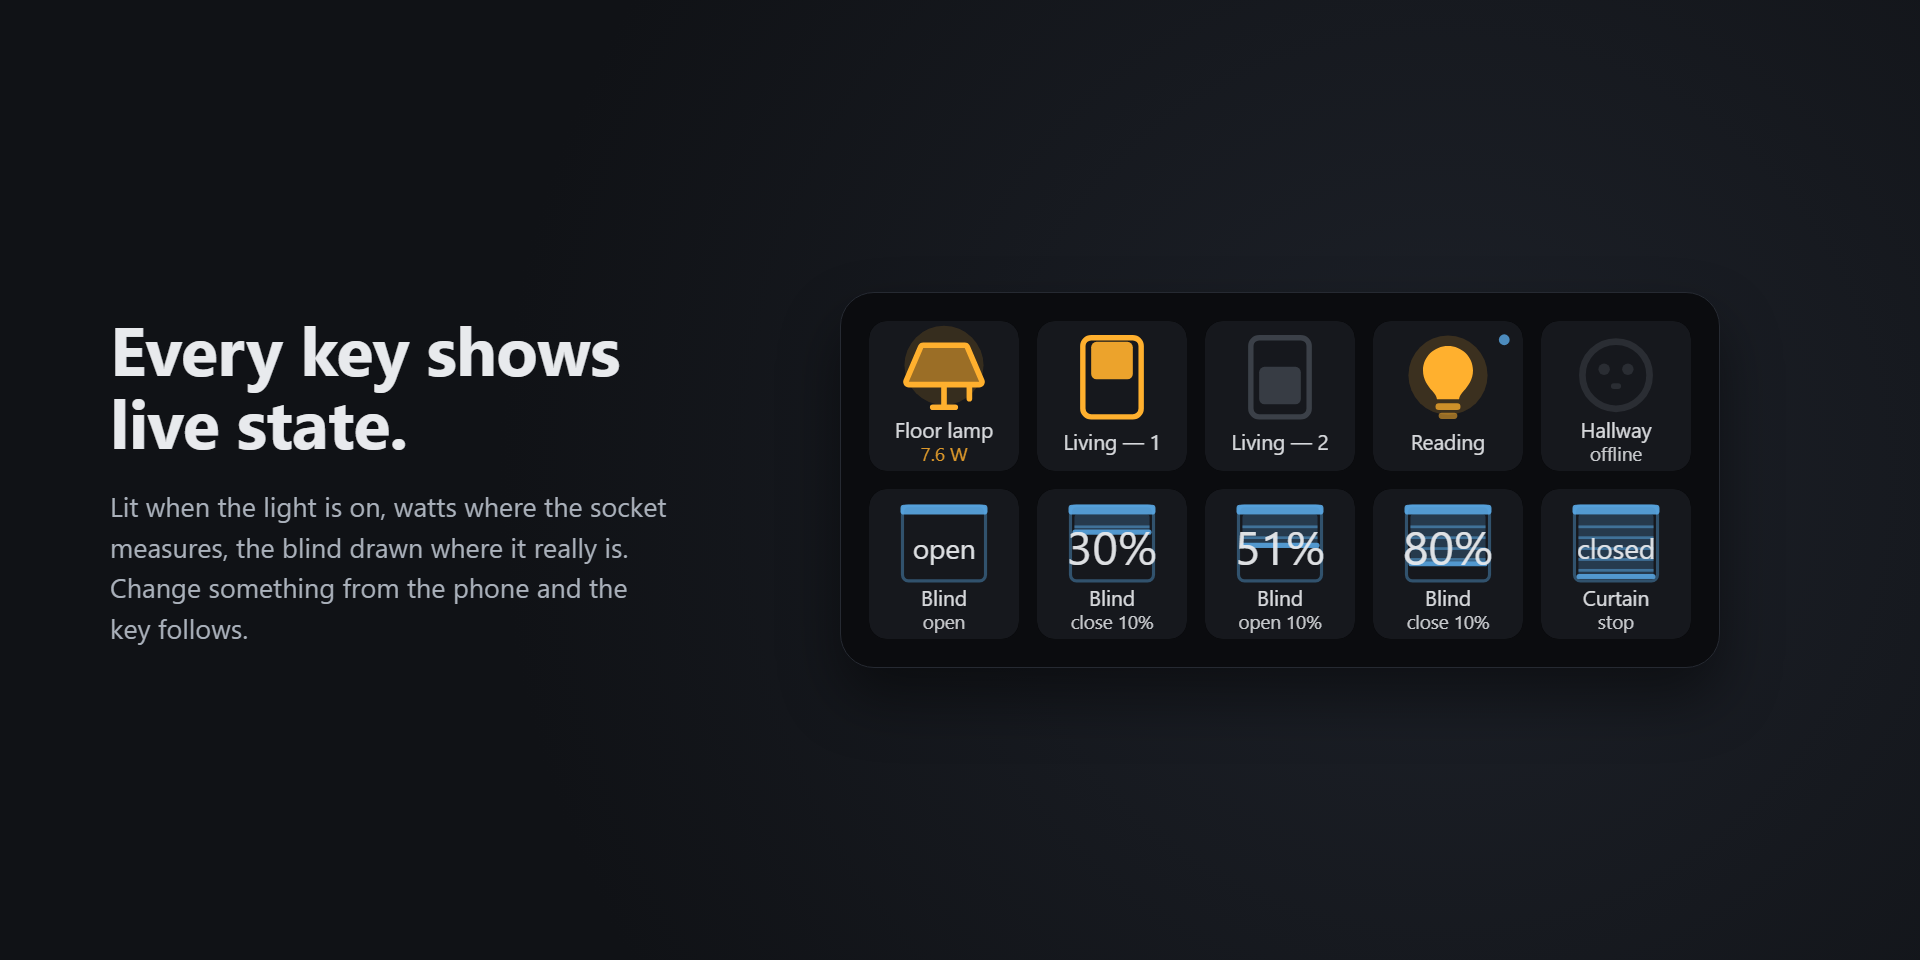
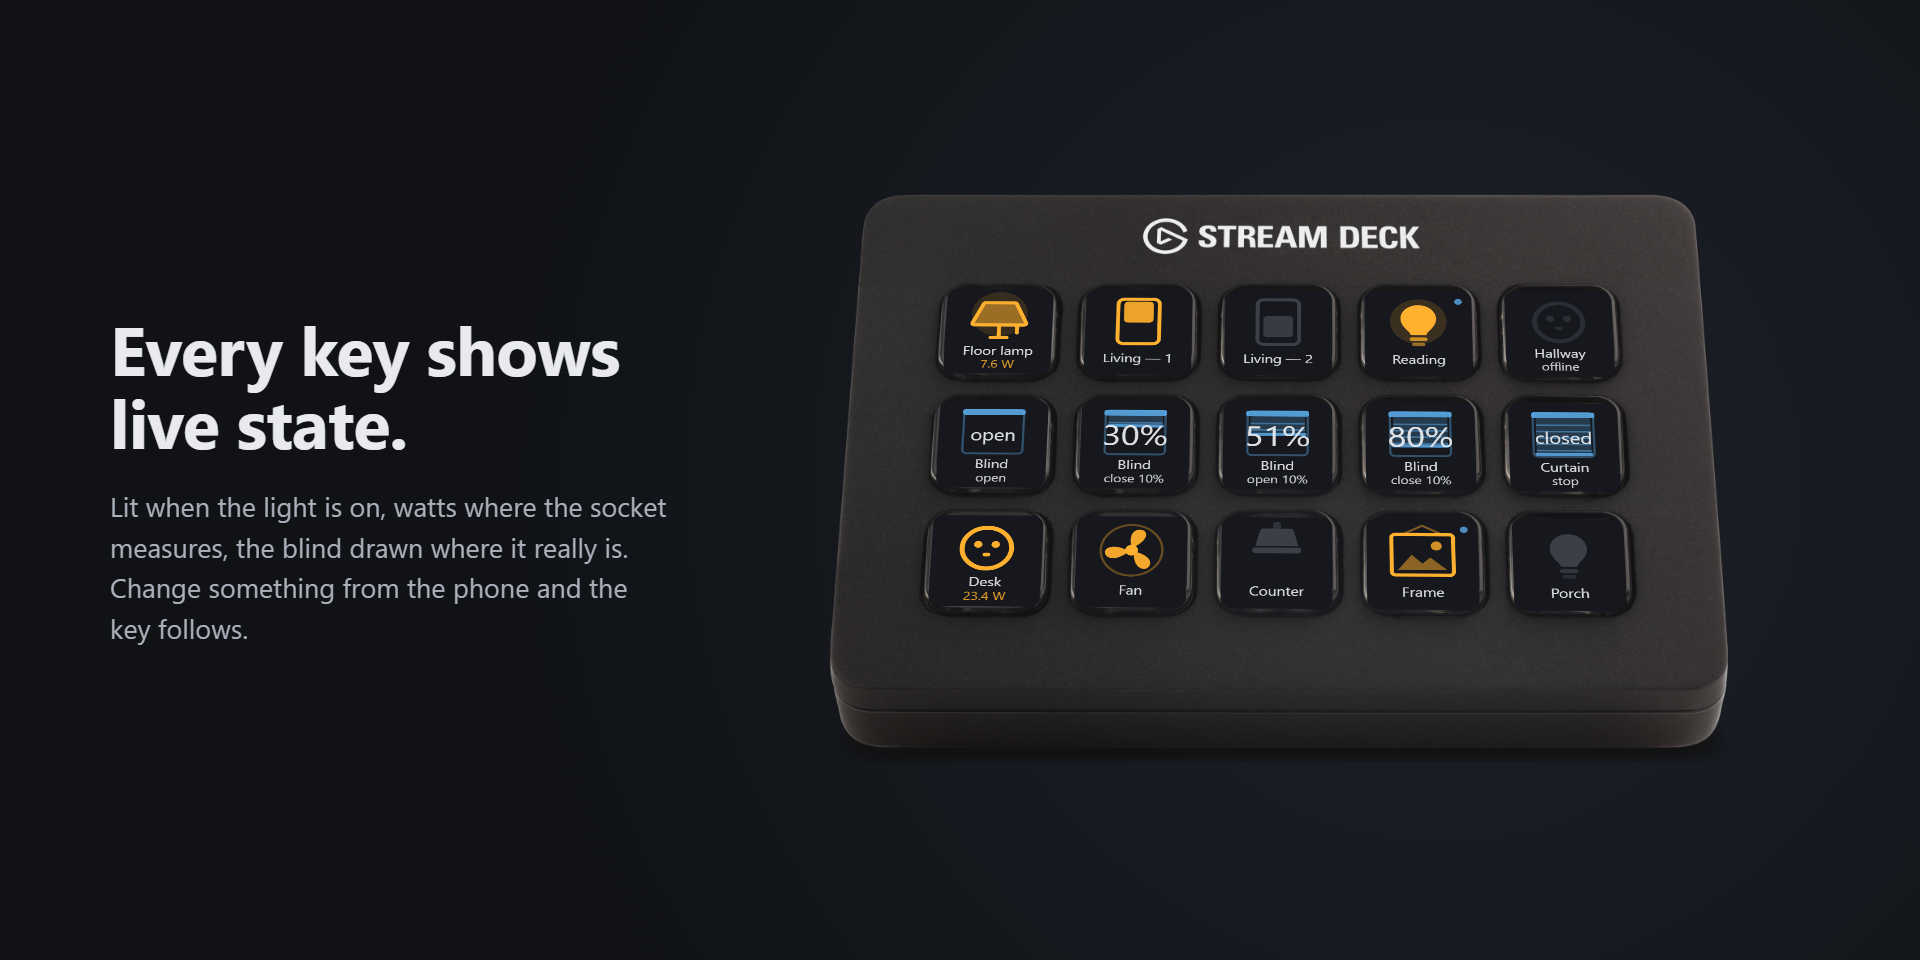
Marketplace art on Elgato's official Stream Deck image
The first review asked for official resources wherever Elgato hardware
appears in the product media. The thumbnail and gallery images 1, 2 and 5
drew their own deck: a dark rounded box with a grid of keys.

They now place the keys on Elgato's Stream Deck MK.2 product image from the
Elgato Media Room (front view, no cable, transparent background). The keys
follow the device's perspective: a homography fitted once on the image's key
screens maps each key onto its screen through a CSS matrix3d, with a small
bleed so none of the original key art shows at the edges. render-promo
downloads the 6000x4000 PNG into node_modules/.cache and checks its SHA-256,
like the Python bundle, so Elgato's image never enters the repository.

Gallery 2 fills the third row with five more states, and gallery 5 shows the
deck after All off: every light dark, the key saying "done". The GitHub
social previews keep the drawn deck; they are not store media.

LISTING records that the review wants the demo video by e-mail to
maker@elgato.com, and THIRD-PARTY credits the device image.

Changed region(s): [[0.4062, 0.1875, 0.9062, 0.7812]]

diff --git a/docs/marketplace/LISTING.pt-BR.md b/docs/marketplace/LISTING.pt-BR.md
@@ -8,7 +8,10 @@ explica em português o que vai em cada campo.
 
 As imagens desta pasta são geradas pelo `npm run promo` (em `streamdeck-plugin/`), a partir
 das mesmas funções que desenham a tecla física e das imagens do painel em
-[../img/](../img/). Mudou as teclas ou o painel, rode de novo.
+[../img/](../img/). Mudou as teclas ou o painel, rode de novo. Onde aparece um Stream Deck,
+ele é a imagem oficial do Stream Deck MK.2 da Elgato Media Room, com as teclas postas nas
+telas dele: a revisão recusa desenho caseiro de hardware da Elgato (veja o
+[THIRD-PARTY.pt-BR.md](../../THIRD-PARTY.pt-BR.md#arte)).
 
 ## Produto
 
@@ -71,9 +74,10 @@ reserva, o pareamento dentro do painel com o Python embutido e os três idiomas.
 ## Vídeo de demonstração
 
 O revisor não tem aparelhos Tuya, então um vídeo de teclas reais comandando aparelhos reais
-é a única prova que ele terá de que o plugin funciona. O único espaço para vídeo na
-submissão é um item da galeria, então ele vai lá, ao lado das imagens. MP4, 1920×1080,
-**menos de 50 MB**.
+é a única prova que ele terá de que o plugin funciona. A revisão pede esse vídeo **por e-mail
+para maker@elgato.com** antes da aprovação; a galeria também aceita vídeo, mas lá é opcional.
+MP4, 1920×1080, menos de 250 MB na galeria (o arquivo atual está muito abaixo de qualquer
+limite).
 
 As tomadas são as do [LAUNCH.pt-BR.md](../LAUNCH.pt-BR.md#vídeo-de-demonstração), e a mesma
 filmagem serve aos dois. O que a versão da loja acrescenta:
@@ -83,7 +87,7 @@ filmagem serve aos dois. O que a versão da loja acrescenta:
 - Nada legível que identifique uma conta ou uma casa: sem código de usuário, sem QR, sem IDs
   de aparelho nem chaves locais do log de atividade. Borre na edição.
 
-O vídeo atual tem 1:07 e 8 MB; não é versionado, porque o repositório não é lugar para ele.
+O vídeo atual tem 1:07 e 3 MB; não é versionado, porque o repositório não é lugar para ele.
 Foi gravado ao vivo no app do Stream Deck, no Stream Deck XL do autor, com a narração do
 `gpt-4o-mini-tts` da OpenAI. O que ele mostra, na ordem:
 

diff --git a/docs/marketplace/LISTING.md b/docs/marketplace/LISTING.md
@@ -8,7 +8,10 @@ in Portuguese.
 
 The images in this folder are generated by `npm run promo` (in `streamdeck-plugin/`), from
 the same functions that draw the physical key and from the panel pictures in
-[../img/](../img/). Change the keys or the panel, run it again.
+[../img/](../img/). Change the keys or the panel, run it again. Wherever a Stream Deck
+appears, it is Elgato's official Stream Deck MK.2 product image from the Elgato Media Room,
+with the keys placed on its screens: the review rejects homemade drawings of Elgato hardware
+(see [THIRD-PARTY.md](../../THIRD-PARTY.md#artwork)).
 
 ## Product
 
@@ -87,8 +90,9 @@ field takes Markdown too.
 ## Demo video
 
 The reviewer has no Tuya devices, so a video of real keys driving real devices is the only
-proof they will have that the plugin works. The only video slot in the submission is a
-gallery item, so it goes there, next to the images. MP4, 1920×1080, **under 50 MB**.
+proof they will have that the plugin works. The review asks for it **by e-mail to
+maker@elgato.com** before approval; the gallery also takes a video, which is optional. MP4,
+1920×1080, under 250 MB for the gallery (the current file is far below any limit).
 
 The shots are the ones in [LAUNCH.md](../LAUNCH.md#demo-video), and the same footage serves
 both. What the store version adds:
@@ -99,7 +103,7 @@ both. What the store version adds:
 - Nothing readable that identifies an account or a house: no user code, no QR, no device
   IDs or local keys from the Activity log. Blur them in the edit.
 
-The current video runs 1:07 and weighs 8 MB; it is not versioned, because the repository is
+The current video runs 1:07 and weighs 3 MB; it is not versioned, because the repository is
 no place for it. It was recorded live in the Stream Deck app on the author's Stream Deck XL,
 with the narration from OpenAI's `gpt-4o-mini-tts`. What it shows, in order:
 

diff --git a/THIRD-PARTY.pt-BR.md b/THIRD-PARTY.pt-BR.md
@@ -125,6 +125,12 @@ que ele é a única arte em [`src/icons.ts`](streamdeck-plugin/src/icons.ts) com
 de três dígitos. A cúpula é preenchida com a cor de estado da tecla em vez do cinza chapado
 do original, então o abajur fica âmbar junto com o resto.
 
+**O Stream Deck da arte da loja é da Elgato.** A thumbnail e as imagens de galeria em
+`docs/marketplace/` põem as teclas sobre a imagem oficial do Stream Deck MK.2 da Elgato, da
+[Elgato Media Room](https://www.elgato.com/s/media-room), porque a loja pede recursos
+oficiais onde aparece hardware da Elgato. O `npm run promo` baixa essa imagem na hora de gerar
+e confere o hash dela; ela não está no repositório e não faz parte do plugin.
+
 ## Compatibilidade de licenças, numa tabela
 
 Por que cada uma delas pode ficar dentro de um projeto GPL-3.0-or-later:

diff --git a/THIRD-PARTY.md b/THIRD-PARTY.md
@@ -124,6 +124,13 @@ why it is the only artwork in
 filled with the key's state colour instead of the source's flat grey, so the lamp goes
 amber with everything else.
 
+**The Stream Deck in the Marketplace art is Elgato's.** The thumbnail and the gallery images
+in `docs/marketplace/` place the keys on Elgato's official Stream Deck MK.2 product image,
+from the [Elgato Media Room](https://www.elgato.com/s/media-room), because the Marketplace
+asks for official resources wherever Elgato hardware appears. `npm run promo` downloads that
+image at build time and checks it by hash; it is not in the repository, and it is not part of
+the plugin.
+
 ## Licence compatibility, in one table
 
 Why each of these can sit inside a GPL-3.0-or-later project:
